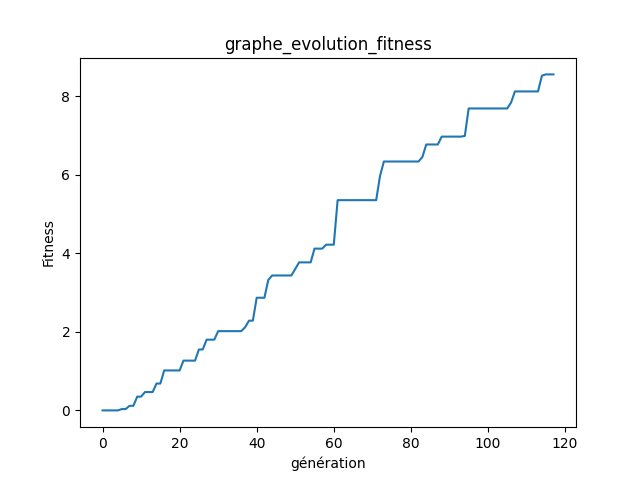
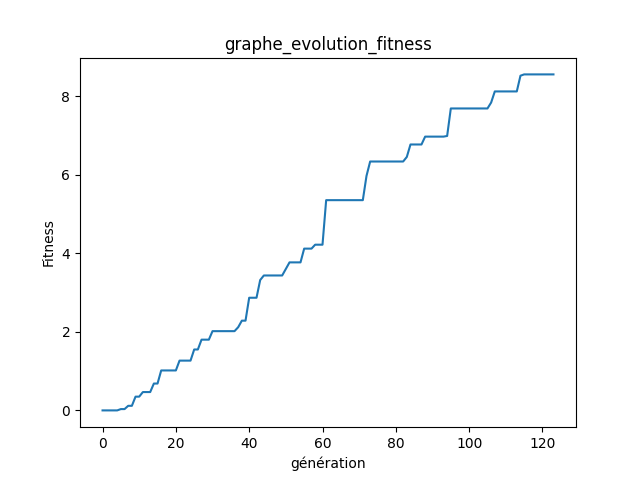
Dernière version

diff --git a/WorldObserverEvol.py b/WorldObserverEvol.py
@@ -102,19 +102,27 @@ class WorldObserverEvol(WorldObserver):
         
         for i in range (self.nb_objects):
             obj = Feuille(self.next_id_obj)
+            
+            obj.hide()
             obj.unregister()
 
             x = randint(100, 650)
             y = randint(120, 450) 
-    
+            
+            for f in self.feuille:
+                p = f.position
+                while (p[0] == x and p[1] == y):
+                     x = randint(100, 650)
+                     y = randint(120, 450) 
+            
+            
             obj.set_coordinates(x, y)
             b = obj.can_register()
             while(b==False):
                   x = randint(100, 650)
                   y = randint(120, 450) 
                   obj.set_coordinates(x, y)
-                  b = obj.can_register()
-            print("Register obj (",obj.get_id(),") :", b)      
+                  b = obj.can_register()   
                   
             obj = self.rob.add_object(obj)
             obj.show()
@@ -225,7 +233,9 @@ class WorldObserverEvol(WorldObserver):
             y = randint(120, 450) 
             obj.hide()
             obj.unregister()
+            
             obj.set_coordinates(x, y)
+            
             
             b = obj.can_register()
             while(b==False):

diff --git a/MainEvol.py b/MainEvol.py
@@ -39,7 +39,7 @@ def main():
         controller_class=EvolController,
         world_observer_class=WorldObserverEvol,
         object_class_dict={'uwall': UWallObject, 'switch': SwitchObject,'feuille': Feuille},
-        override_conf_dict={"gBatchMode": False, "gDisplayMode": 0,"gInitialNumberOfRobots":lambda_}
+        override_conf_dict={"gBatchMode": True, "gDisplayMode": 2,"gInitialNumberOfRobots":lambda_}
     )
 
  
@@ -51,7 +51,7 @@ def main():
         """
         if igen in gen_to_track:
             rob.init_trajectory_monitor()  """# log trajectory for all agents
-        #print("*" * 10, igen, "*" * 10)
+        print("*" * 10, igen, "*" * 10)
         ## Pour tester une solution candidate(les poids) il faudrait faire
         ## une moyenne sur plusieurs expériences et pas que sur une 
         s = ("génération:",igen)

diff --git a/objects.py b/objects.py
@@ -1,6 +1,5 @@
 from pyroborobo import Pyroborobo, Controller, CircleObject, SquareObject
 import copy
-from controllersTest import ControllerTest
 from random import *
 
 class Feuille(CircleObject):
